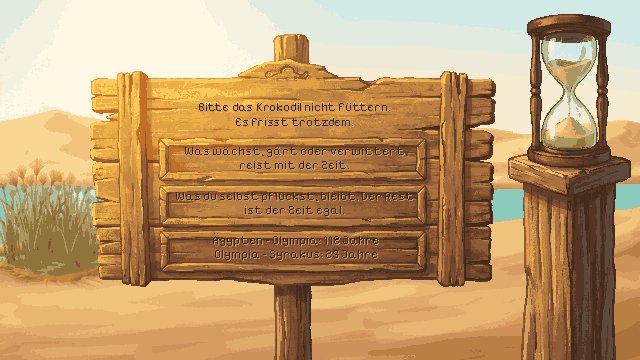
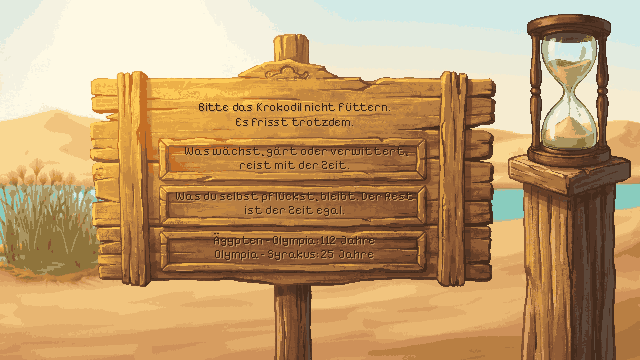
Fährtafel: eigene Ziffern, damit 112 und 25 nicht wie 118 und 29 aussehen
Claude-Session: https://claude.ai/code/session_01GrSQs3GdiDwzceGTtnAjNx

Changed region(s): [[0.3125, 0.6417, 0.5938, 0.7333]]

diff --git a/tools/nahansichten_welt2_schrift.py b/tools/nahansichten_welt2_schrift.py
@@ -55,12 +55,56 @@ def umbrechen(d, text, f, breite):
     return zeilen
 
 
+# Eigene Ziffern 5×8 (Höhe der Großbuchstaben in Pixelify 12): In Pixelify sehen 2 und 5 aus wie 8 und 9,
+# und die Fährtafel braucht die Jahre eindeutig (Rätsel 10: 112 + 25 = 137).
+ZIFFERN = {
+    "0": [".###.", "#...#", "#..##", "#.#.#", "#.#.#", "##..#", "#...#", ".###."],
+    "1": ["..#..", ".##..", "..#..", "..#..", "..#..", "..#..", "..#..", ".###."],
+    "2": [".###.", "#...#", "....#", "...#.", "..#..", ".#...", "#....", "#####"],
+    "3": [".###.", "#...#", "....#", "..##.", "....#", "....#", "#...#", ".###."],
+    "4": ["...#.", "..##.", ".#.#.", "#..#.", "#####", "...#.", "...#.", "...#."],
+    "5": ["#####", "#....", "####.", "....#", "....#", "....#", "#...#", ".###."],
+    "6": [".###.", "#....", "#....", "####.", "#...#", "#...#", "#...#", ".###."],
+    "7": ["#####", "....#", "...#.", "...#.", "..#..", "..#..", "..#..", "..#.."],
+    "8": [".###.", "#...#", "#...#", ".###.", "#...#", "#...#", "#...#", ".###."],
+    "9": [".###.", "#...#", "#...#", "#...#", ".####", "....#", "....#", ".###."],
+}
+ZIFFER_OBEN = 4   # Abstand von der Textposition zur Oberkante der Großbuchstaben bei Größe 12
+
+
+def ziffer(d, z, x, y, farbe):
+    for r, zeile in enumerate(ZIFFERN[z]):
+        for c, ch in enumerate(zeile):
+            if ch == "#":
+                d.point((int(x) + c, int(y) + ZIFFER_OBEN + r), fill=farbe)
+
+
+def schreiben(d, xy, text, f, farbe):
+    """Wie d.text, aber Ziffern aus ZIFFERN (nur bei Größe 12, sonst die Schrift selbst)."""
+    x, y = xy
+    if f.size != 12 or not any(ch.isdigit() for ch in text):
+        d.text((x, y), text, font=f, fill=farbe)
+        return
+    i = 0
+    while i < len(text):   # Läufe ohne Ziffern am Stück, damit sie genau wie bisher aussehen
+        j = i + 1
+        while j < len(text) and text[j].isdigit() == text[i].isdigit():
+            j += 1
+        px = x + d.textlength(text[:i], font=f)
+        if text[i].isdigit():
+            for k in range(i, j):
+                ziffer(d, text[k], x + d.textlength(text[:k], font=f), y, farbe)
+        else:
+            d.text((px, y), text[i:j], font=f, fill=farbe)
+        i = j
+
+
 def mittig(d, text, f, x0, x1, y, farbe, kerbe=None):
     w = d.textlength(text, font=f)
     x = (x0 + x1 - w) / 2
     if kerbe:   # heller Rand unten rechts: wirkt eingeschnitten
-        d.text((x + 1, y + 1), text, font=f, fill=kerbe)
-    d.text((x, y), text, font=f, fill=farbe)
+        schreiben(d, (x + 1, y + 1), text, f, kerbe)
+    schreiben(d, (x, y), text, f, farbe)
 
 
 def glyphe(im, name, groesse, x0, y0, x1, y1):
@@ -72,6 +116,45 @@ def oben_einritzen(d, zeilen):
     """Hausordnung auf dem freien oberen Brett der Fährtafel, über den drei Feldern (W2_NIL_PIX_0660)."""
     for i, z in enumerate(zeilen):
         mittig(d, z, font(12), 166, 422, 99 + i * 15, KERBE, KERBE_HELL)
+
+
+def ziffern_flicken(pfad, text, feld=(166, 230, 422, 265)):
+    """Nur für die Cloud ohne Quellbilder: die alte Zeile (Pixel in KERBE/KERBE_HELL) mit dem Holz daneben
+    übermalen und neu ritzen. Ein voller Lauf mit den Quellbildern ergibt dasselbe."""
+    im = Image.open(pfad).convert("RGB")
+    d = ImageDraw.Draw(im)
+    d.fontmode = "1"
+    f = font(12)
+    x0, y0, x1, y1 = feld
+    zeilen = [t.strip() for t in text.split("|")]
+    h = 14 * len(zeilen)
+    a = im.load()
+    for zi, z in enumerate(zeilen):
+        y = (y0 + y1 - h) / 2 + zi * 14 - 1
+        x = (x0 + x1 - d.textlength(z, font=f)) / 2
+        # Die Tafel wurde mit einer anderen Pillow-Version gesetzt (andere Laufweiten): Lage der alten Zeile
+        # suchen, indem die Zeile probeweise verschoben wird, bis ihre Pixel am besten passen
+        def treffer(dx, dy):
+            probe = Image.new("1", im.size, 0)
+            ImageDraw.Draw(probe).text((x + dx, y + dy), z, font=f, fill=1)
+            pp = probe.load()
+            return sum(1 for qy in range(int(y) - 2, int(y) + 18) for qx in range(x0, x1)
+                       if pp[qx, qy] and a[qx, qy] == KERBE)
+        dx, dy = max(((i, j) for i in range(-8, 9) for j in (-1, 0, 1)), key=lambda t: treffer(*t))
+        x, y = x + dx, y + dy
+        # ganze alte Zeile mit dem Holz daneben übermalen (Holzmaserung läuft waagrecht) und neu ritzen
+        for py in range(int(y) + 2, int(y) + 16):
+            for qx in range(x0 + 2, x1 - 2):
+                if a[qx, py] in (KERBE, KERBE_HELL):
+                    for ddx in (-1, 1, -2, 2, -3, 3, -4, 4, -5, 5, -6, 6, -8, 8, -10, 10, -12, 12):
+                        q = a[qx + ddx, py]
+                        if q not in (KERBE, KERBE_HELL):
+                            a[qx, py] = q
+                            break
+        x = (x0 + x1 - d.textlength(z, font=f)) / 2   # neu mittig, wie bei einem vollen Lauf
+        schreiben(d, (x + 1, y + 1), z, f, KERBE_HELL)
+        schreiben(d, (x, y), z, f, KERBE)
+    im.save(pfad)
 
 
 def alle(sprache):
@@ -132,6 +215,10 @@ if __name__ == "__main__":
             d.fontmode = "1"
             oben_einritzen(d, TEXTE[s]["tafel_oben"])
             im.save(Z + "faehrtafel" + endung)
+        sys.exit()
+    if "--nur-ziffern" in sys.argv:   # ohne Quellbilder: alte Pixelify-Ziffern im dritten Feld durch ZIFFERN ersetzen
+        for s, endung in (("de", ".png"), ("en", "_en.png")):
+            ziffern_flicken(Z + "faehrtafel" + endung, TEXTE[s]["tafel"][2])
         sys.exit()
     for s in ("de", "en"):
         alle(s)
